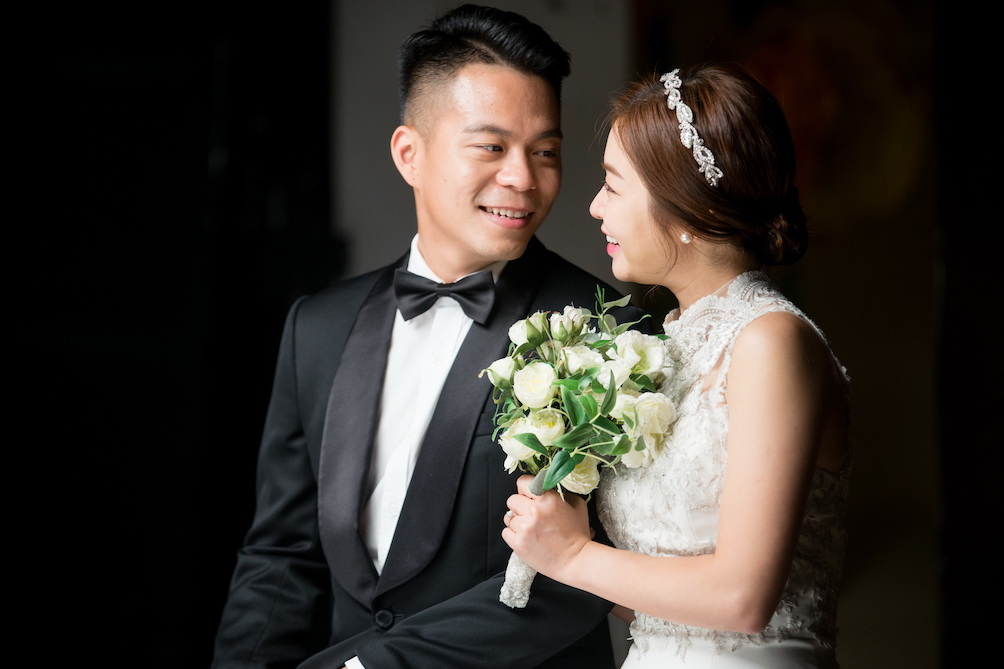
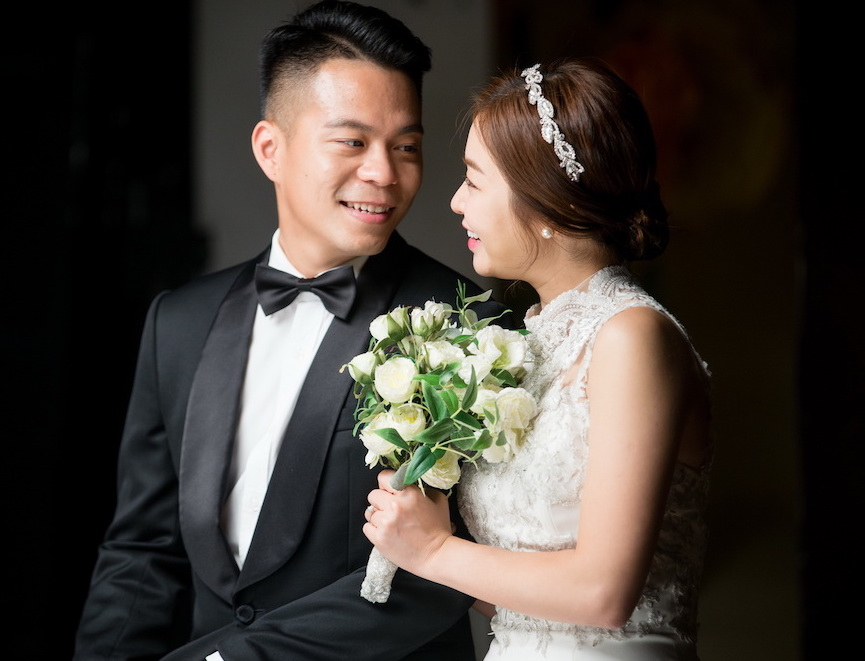
updates

diff --git a/index.html b/index.html
@@ -94,20 +94,9 @@
 		</div>
 	</nav>
 
-	<header id="fh5co-header" class="fh5co-cover" role="banner" data-stellar-background-ratio="0.5">
-		  
-		<div class="overlay">	
-			<div class="pictureBg" style="overflow: hidden;">
+	<header id="fh5co-header" class="fh5co-cover" role="banner" style="background-image:url(https://drive.google.com/uc?id=1aQ6RN8FpoPvcYVlwtVz-lv0JbyAe9FWk);" data-stellar-background-ratio="0.5">
 
-				<picture>
-			      <source media='(min-width: 800px)'
-			      		srcset='https://drive.google.com/uc?id=1wmhAgN5IMqBlsMCMvXVbJ0WzJHNbvCq1'sizes="200vw" />
-			            
-			      <source media='(min-width: 350px)'
-			                srcset='https://drive.google.com/uc?id=1JPSFiEKYuUtXifnuJOD05QcZ4_opIM5z'/>
-			      <img src='https://drive.google.com/uc?id=1wmhAgN5IMqBlsMCMvXVbJ0WzJHNbvCq1'/>
-	    		</picture>
-	    	</div>
+		<div class="overlay">	
 		</div>
 		<div class="container">
 			<div class="row">

diff --git a/rsvp.html b/rsvp.html
@@ -90,7 +90,6 @@
 			
 		</div>
 	</nav>
-
 	
 
 	<header id="fh5co-header" class="fh5co-cover fh5co-cover-sm" role="banner" style="background-image:url(https://drive.google.com/uc?id=1tlRwJsjH0W9tLHU9n5lKNddTLAmIOFMe);">

diff --git a/css/style.css b/css/style.css
@@ -397,7 +397,7 @@ h1, h2, h3, h4, h5, h6, figure {
   right: 0;
   bottom: 0;
   background: rgba(0, 0, 0, 0.4);
-  overflow: hidden;
+
 }
 @media screen and (max-width: 768px) {
   #fh5co-counter,
